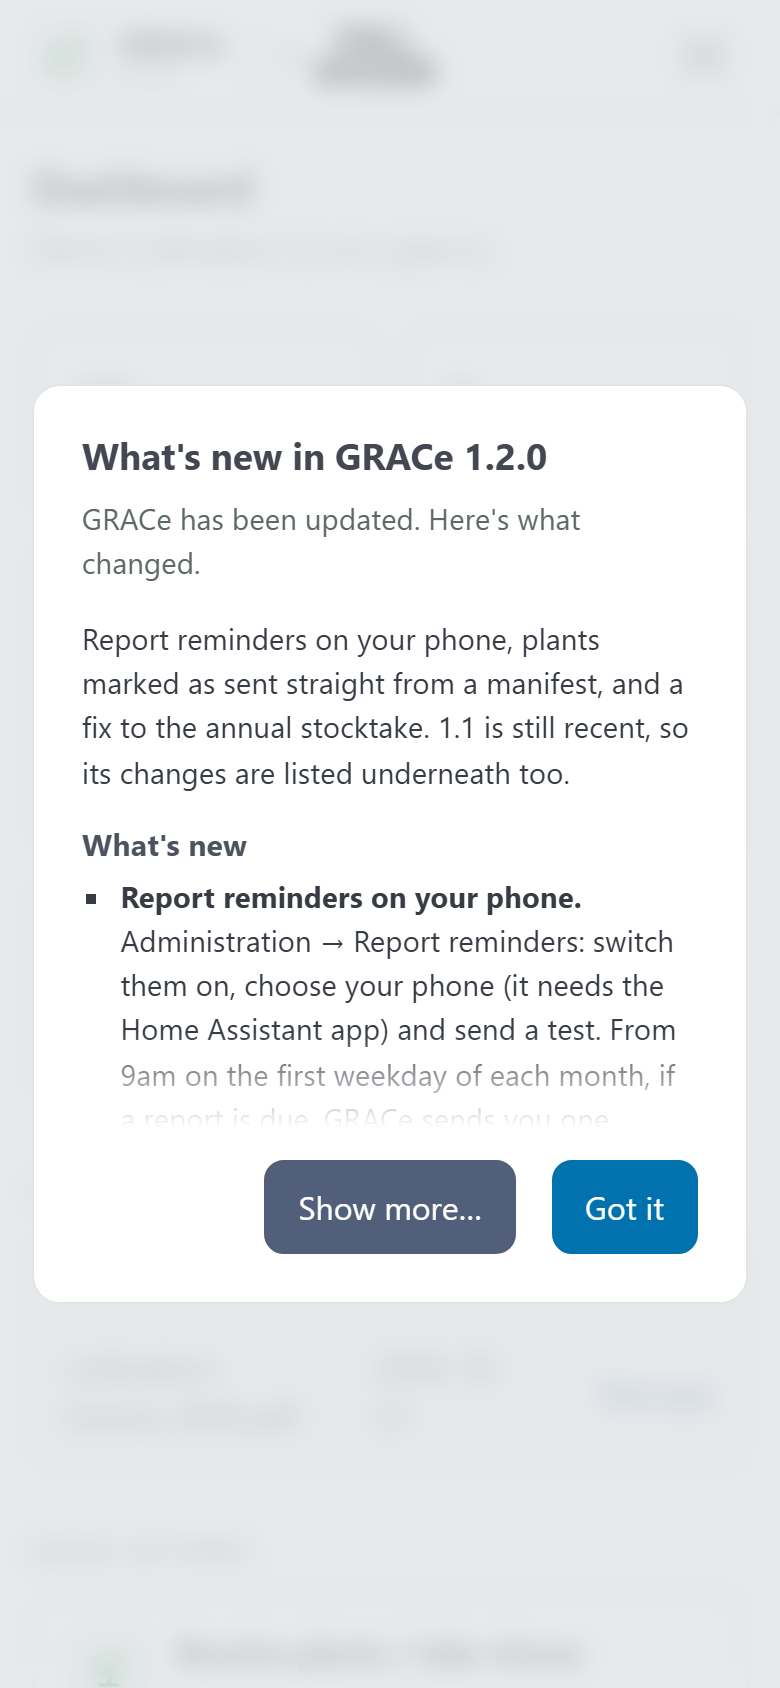
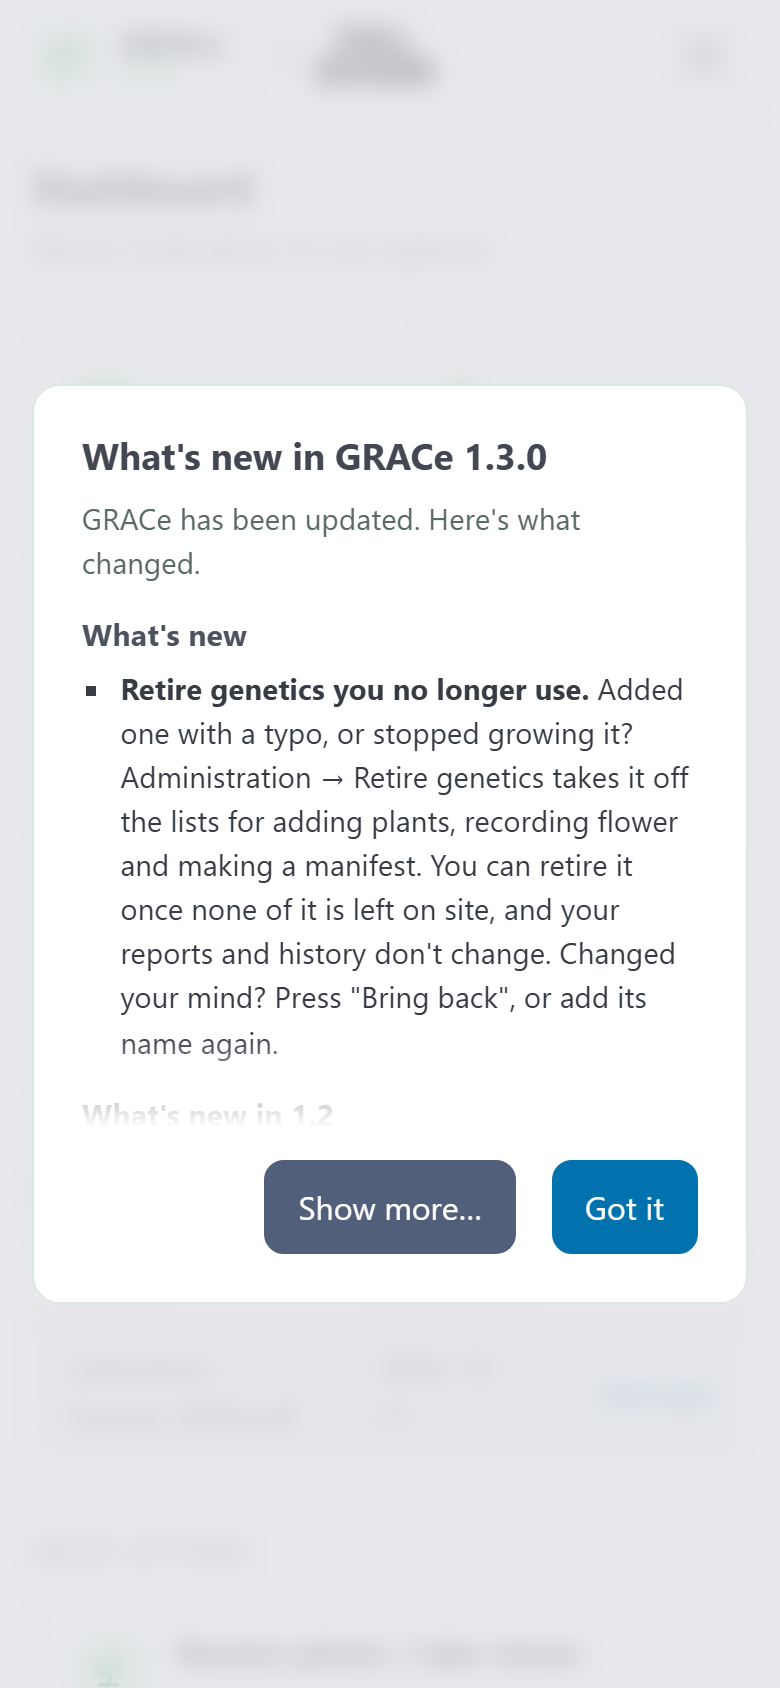
Release 1.3.0: retire genetics (#48)
* Retire genetics: hide old or mistyped genetics from new entries

A genetics added with a typo, or one nobody grows any more, stayed in
every list for good. Administration → Retire genetics now hides it from
Receive plants, Record dry weight change and Generate Shipping Manifest.
Reports and history never change.

A genetics can only be retired once nothing of it is left on site: no
plants growing or drying and no flower (a balance within 0.05 g of zero
counts as none). The page says what's still there. "Bring back" undoes
it, and adding a retired genetics' name again brings it back instead of
making a second one. The entry handlers refuse a retired genetics too,
in case a form was opened before it was retired.

Existing databases get the new retired_at column in place on their
first page load (ALTER TABLE ADD COLUMN, so Genetics is never rebuilt).

* Show v1.3.0 in the Retire genetics guide screenshot

Retaken with the 1.3.0 release, so this PR and the release PR carry the
same image and merge one after the other without a conflict.

* Release 1.3.0: retire genetics

Version 1.3.0 in config.yaml, nav.php, GRACE_ASSET_VERSION and the
changelog, set with tests/bump_version.php. The changelog entry is the
reviewed one: retiring genetics (#47), with 1.2's notes repeated
underneath because 1.2 only came out today. All 29 guide screenshots are
retaken, showing v1.3.0 and the new notes.

---------

Changed region(s): [[0.0923, 0.3697, 0.8923, 0.6469], [0.1231, 0.6469, 0.1538, 0.6777]]

diff --git a/grace_addon/files/general/www/public/nav.php b/grace_addon/files/general/www/public/nav.php
@@ -27,7 +27,7 @@ $navSections = [
                 </span>
                 <span class="nav-brand-text">
                     <strong>GRACe</strong>
-                    <span class="nav-brand-sub"><small>v1.2.0</small></span>
+                    <span class="nav-brand-sub"><small>v1.3.0</small></span>
                 </span>
                 <span class="nav-brand-maker">
                     <span class="nav-brand-by">by</span>

diff --git a/grace_addon/files/general/www/public/header.php b/grace_addon/files/general/www/public/header.php
@@ -7,7 +7,7 @@
  *   $useJquery  - set true on pages that use the jQuery document manager
  */
 if (!defined('GRACE_ASSET_VERSION')) {
-    define('GRACE_ASSET_VERSION', '1.2.0');
+    define('GRACE_ASSET_VERSION', '1.3.0');
 }
 $pageTitle = $pageTitle ?? 'GRACe';
 ?>

diff --git a/grace_addon/CHANGELOG.md b/grace_addon/CHANGELOG.md
@@ -1,3 +1,20 @@
+## [1.3.0] - 2026-10-11
+
+### What's new
+- **Retire genetics you no longer use.** Added one with a typo, or stopped growing it? Administration → Retire genetics takes it off the lists for adding plants, recording flower and making a manifest. You can retire it once none of it is left on site, and your reports and history don't change. Changed your mind? Press "Bring back", or add its name again.
+
+### What's new in 1.2
+- **Report reminders on your phone.** Administration → Report reminders: switch them on, choose your phone (it needs the Home Assistant app) and send a test. From 9am on the first weekday of each month, if a report is due, GRACe sends you one notification.
+- **Mark plants as sent straight from a manifest.** On a manifest for plants going to another company, leave "Then mark these plants as sent" on. Harvest / Destroy / Send opens with those plants ticked and the company chosen, so you check them, confirm, and you're back at the manifest.
+
+### Important fixes in 1.2
+- **Harvested plants count as harvested on the annual stocktake.** Plants marked Harvested - Destroyed used to be counted under Destroyed, which left the Harvested column at 0. They count as Harvested now. The totals and closing stock don't change, but if you open an older year's stocktake again, those plants move columns.
+
+### Changes in 1.2
+- "Plants growing" and "Plants drying" on the Dashboard open a list of just those plants.
+- Quick select on Harvest / Destroy / Send can now start with the drying plants.
+- GRACe can now send notifications through Home Assistant. It only does if you switch report reminders on.
+
 ## [1.2.0] - 2026-10-11
 Report reminders on your phone, plants marked as sent straight from a manifest, and a fix to the annual stocktake. 1.1 is still recent, so its changes are listed underneath too.
 
